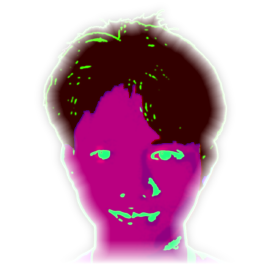
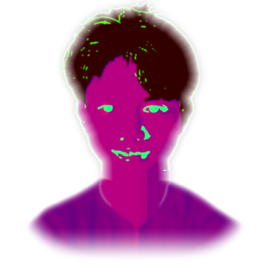
Show the portrait as a head-and-shoulders bust and drop the ink reveal
- avatar-map.png rebuilt: the head-only map scaled into the top two-thirds, the neck
  continued, shoulders and V-neck t-shirt traced from the About photo's silhouette; the
  shirt sits between face and hair in both modes, shoulders and bottom fade to dots
- The plate masks with the map's own alpha so it follows the bust; avatar-ink.webp deleted
- Remove the hover/tap ink reveal, the "Show the drawing" pin (markup, state, handler,
  style) and the reveal tweak constant; tilt and pointer accent stay; the canvas label
  says head and shoulders
- Section glow rests at the top edge (--my 0%) so untouched sections and phones show it again

diff --git a/src/engine.js b/src/engine.js
@@ -3,7 +3,6 @@ import { SKILLS } from './data.js';
 /* ---------- constants ---------- */
 var RAMP = " .',;:clodxkO0KXNWM";
 var RL = RAMP.length;
-var IMG_URL = '/img/avatar-ink.webp';
 var PHOTO_URL = '/img/photo.webp';
 var MAP_URL = '/img/avatar-map.png';
 
@@ -83,7 +82,7 @@ function sdf(k, x, y, z, t) {
 /* ---------- engine ---------- */
 export function startEngine(logic) {
   var calm = window.matchMedia('(prefers-reduced-motion: reduce)');
-  var E = { t: 0, col: null, dark: true, svc: 0, cat: 'all', modal: -1, pin: false, speaking: false, speed: 1, rain: 1, light: 1, glyph: 10, revealR: 0.38, themeDirty: true };
+  var E = { t: 0, col: null, dark: true, svc: 0, cat: 'all', modal: -1, speaking: false, speed: 1, rain: 1, light: 1, glyph: 10, themeDirty: true };
   var raf = 0, last = performance.now(), lastDraw = 0, clockTimer = 0, tick = 0;
   var io = new IntersectionObserver(function (es) {
     for (var i = 0; i < es.length; i++) if (es[i].target.__fboLayer) es[i].target.__fboLayer.vis = es[i].isIntersecting;
@@ -317,10 +316,9 @@ export function startEngine(logic) {
     ctx.globalAlpha = 1;
   }
 
-  /* ----- avatar: ASCII over the INKWILD drawing ----- */
-  var A = makeLayer(false), aImg = null, aMap = null, aGrid = null, aBuf = document.createElement('canvas');
-  var aRev = 0, aIntro = 0, aBoil = 0, aBoilAt = 0, aSx = 0.5, aSy = 0.4, heroO = null;
-  loadImage(IMG_URL, function (im) { aImg = im; });
+  /* ----- avatar: the INKWILD portrait, head and shoulders, set in ASCII ----- */
+  var A = makeLayer(false), aMap = null, aGrid = null;
+  var aIntro = 0, aBoil = 0, aBoilAt = 0, aSx = 0.5, aSy = 0.4, heroO = null;
   loadImage(MAP_URL, function (im) {
     if (!im) return;
     try {
@@ -382,10 +380,7 @@ export function startEngine(logic) {
     var tx = A.inside ? A.px / w : 0.5 + 0.2 * Math.cos(E.t * 0.45), ty = A.inside ? A.py / h : 0.42 + 0.14 * Math.sin(E.t * 0.6);
     var k = still ? 1 : 1 - Math.pow(0.0015, dt);
     aSx += (tx - aSx) * k; aSy += (ty - aSy) * k;
-    var want = (A.inside || E.pin) ? 1 : 0;
-    aRev = still ? want : aRev + (want - aRev) * (1 - Math.pow(0.02, dt));
-    var cx = E.pin && !A.inside ? w * 0.5 : aSx * w, cy = E.pin && !A.inside ? h * 0.44 : aSy * h;
-    var R = aRev * E.revealR * w * (E.pin && !A.inside ? 1.7 : 1);
+    var cx = aSx * w, cy = aSy * h;
 
     ctx.font = monoFont(g.fs); ctx.textBaseline = 'top'; ctx.fillStyle = E.col.ink;
     var tiers = g.frames[aBoil], alphas = [0.5, 0.78, 1];
@@ -401,50 +396,23 @@ export function startEngine(logic) {
       for (var tr = 0; tr < 3; tr++) { ctx.globalAlpha = alphas[tr]; for (y = 0; y < rows; y++) ctx.fillText(tiers[tr][y], g.ox, g.oy + y * ch); }
     }
     ctx.globalAlpha = 1;
-    if (R > 2 && aImg) {
-      ctx.globalCompositeOperation = 'destination-out';
-      var hole = ctx.createRadialGradient(cx, cy, R * 0.3, cx, cy, R * 0.95);
-      hole.addColorStop(0, 'rgba(0,0,0,1)'); hole.addColorStop(1, 'rgba(0,0,0,0)');
-      ctx.fillStyle = hole; ctx.fillRect(0, 0, w, h);
-      ctx.globalCompositeOperation = 'source-over';
-    }
-    var band = 0.25 * R + 0.12 * w, mid = 0.85 * R, reach = mid + band;
-    var c0 = Math.max(0, Math.floor((cx - reach - g.ox) / cw)), c1 = Math.min(cols - 1, Math.ceil((cx + reach - g.ox) / cw));
-    var r0 = Math.max(0, Math.floor((cy - reach - g.oy) / ch)), r1 = Math.min(rows - 1, Math.ceil((cy + reach - g.oy) / ch));
+    /* accent: brighter glyphs only where the pointer is (it drifts on its own when nobody points) */
+    var band = 0.12 * w;
+    var c0 = Math.max(0, Math.floor((cx - band - g.ox) / cw)), c1 = Math.min(cols - 1, Math.ceil((cx + band - g.ox) / cw));
+    var r0 = Math.max(0, Math.floor((cy - band - g.oy) / ch)), r1 = Math.min(rows - 1, Math.ceil((cy + band - g.oy) / ch));
     ctx.fillStyle = E.col.accent;
     for (y = r0; y <= r1; y++) for (x = c0; x <= c1; x++) {
       d = g.dens[y * cols + x]; if (d < 0.03) continue;
       var gx = g.ox + (x + 0.5) * cw - cx, gy = g.oy + (y + 0.5) * ch - cy;
-      var bd = 1 - Math.abs(Math.sqrt(gx * gx + gy * gy) - mid) / band;
+      var bd = 1 - Math.sqrt(gx * gx + gy * gy) / band;
       if (bd <= 0) continue;
       idx = Math.floor(d * (RL - 0.01)) + Math.round(bd * 3);
-      if (!still && hash2(x + tick * 0.37, y - tick * 0.11) < 0.3 * aRev + 0.04) idx = 1 + Math.floor(hash2(x - tick, y + tick) * (RL - 1));
+      if (!still && hash2(x + tick * 0.37, y - tick * 0.11) < 0.04) idx = 1 + Math.floor(hash2(x - tick, y + tick) * (RL - 1));
       if (idx > RL - 1) idx = RL - 1;
       ctx.globalAlpha = Math.pow(bd, 1.4) * 0.95;
       ctx.fillText(RAMP.charAt(idx), g.ox + x * cw, g.oy + y * ch);
     }
     ctx.globalAlpha = 1;
-    if (R > 2 && aImg) {
-      if (aBuf.width !== A.el.width || aBuf.height !== A.el.height) { aBuf.width = A.el.width; aBuf.height = A.el.height; }
-      var b = aBuf.getContext('2d');
-      b.setTransform(A.dpr, 0, 0, A.dpr, 0, 0);
-      b.globalCompositeOperation = 'source-over'; b.clearRect(0, 0, w, h);
-      b.drawImage(aImg, g.ox, g.oy, cols * cw, rows * ch);
-      b.globalCompositeOperation = 'source-atop';
-      var sh = b.createRadialGradient(cx, cy, R * 0.34, cx, cy, R);
-      sh.addColorStop(0, 'rgba(' + E.col.shade + ',0)'); sh.addColorStop(1, 'rgba(' + E.col.shade + ',' + (E.dark ? 0.82 : 0.6) + ')');
-      b.fillStyle = sh; b.fillRect(0, 0, w, h);
-      b.globalCompositeOperation = 'destination-in';
-      var mk = b.createRadialGradient(cx, cy, R * 0.46, cx, cy, R);
-      mk.addColorStop(0, 'rgba(0,0,0,1)'); mk.addColorStop(1, 'rgba(0,0,0,0)');
-      b.fillStyle = mk; b.fillRect(0, 0, w, h);
-      b.globalCompositeOperation = 'source-over';
-      ctx.globalCompositeOperation = 'destination-over';
-      ctx.setTransform(1, 0, 0, 1, 0, 0);
-      ctx.drawImage(aBuf, 0, 0);
-      ctx.setTransform(A.dpr, 0, 0, A.dpr, 0, 0);
-      ctx.globalCompositeOperation = 'source-over';
-    }
   }
 
   /* ----- one raymarched ASCII object, used by the service stage and the work covers ----- */
@@ -782,8 +750,8 @@ export function startEngine(logic) {
     var st = logic.state, p = logic.props;
     var dark = st.dark == null ? (p.mode ?? 'Dark') !== 'Light' : st.dark;
     if (dark !== E.dark) { E.dark = dark; A.stamp = ''; for (var i = 0; i < covers.length; i++) covers[i].__fboC.drawn = false; }
-    E.svc = st.svc; E.pin = st.pin; E.speaking = st.busy;
-    E.speed = p.motion ?? 1; E.rain = p.rain ?? 1; E.light = p.light ?? 1; E.glyph = Math.round(p.glyph ?? 10); E.revealR = p.reveal ?? 0.38;
+    E.svc = st.svc; E.speaking = st.busy;
+    E.speed = p.motion ?? 1; E.rain = p.rain ?? 1; E.light = p.light ?? 1; E.glyph = Math.round(p.glyph ?? 10);
     E.themeDirty = true;
     bind();
     for (var j = 0; j < secs.length; j++) secs[j].el.style.height = ''; /* the app may have changed a section's content: its real height wins over a pin */

diff --git a/src/styles.css b/src/styles.css
@@ -28,7 +28,7 @@ body{margin:0}
 .fbo .mnu{position:absolute;top:100%;left:0;right:0;display:flex;flex-direction:column;padding:6px var(--pad) 18px;background:rgba(var(--bgc),.97);border-bottom:1px solid var(--line)}
 .fbo .mnu a{display:flex;align-items:center;min-height:54px;border-top:1px solid var(--line);font:500 14px/1 var(--mono);letter-spacing:.09em;text-transform:uppercase;text-decoration:none}
 .fbo .sec{position:relative;min-height:calc(min(100vh,900px) - 64px);display:flex;align-items:center;scroll-margin-top:64px;overflow:hidden}
-.fbo .sec::before{content:"";position:absolute;inset:0;pointer-events:none;background:radial-gradient(280px circle at var(--mx,72%) var(--my,-30%),var(--glow),transparent 64%)}
+.fbo .sec::before{content:"";position:absolute;inset:0;pointer-events:none;background:radial-gradient(280px circle at var(--mx,72%) var(--my,0%),var(--glow),transparent 64%)}
 .fbo .amb{position:absolute;inset:0;width:100%;height:100%;display:block;pointer-events:none}
 .fbo .wrap{position:relative;z-index:1;width:100%;max-width:1360px;margin:0 auto;padding:30px var(--pad)}
 .fbo .fxb{transition:opacity .9s cubic-bezier(.16,1,.3,1),filter .9s cubic-bezier(.16,1,.3,1),transform .9s cubic-bezier(.16,1,.3,1)}
@@ -48,7 +48,7 @@ body{margin:0}
 /* header CTA: same Messenger link as the hero, sized like the theme pill; icon only where the nav gets tight (≤1000px) */
 .fbo .hcta{min-height:44px;padding:0 16px;gap:9px}
 .fbo .icb{display:inline-flex;align-items:center;justify-content:center;width:48px;height:48px;flex:none;border-radius:999px;border:1px solid var(--line);background:rgba(var(--bgc),.6);color:var(--ink);cursor:pointer;transition:border-color .2s ease,color .2s ease,transform .15s ease}
-.fbo .icb:hover,.fbo .icb.on{border-color:var(--accent);color:var(--accent)}
+.fbo .icb:hover{border-color:var(--accent);color:var(--accent)}
 .fbo .icb:active{transform:scale(.94)}
 .fbo .lnk{display:inline-flex;align-items:center;min-height:48px;padding:0 4px;font:500 12px/1 var(--mono);letter-spacing:.09em;text-transform:uppercase;text-decoration:none;color:var(--mute);background-image:linear-gradient(currentColor,currentColor);background-size:0 1px;background-repeat:no-repeat;background-position:4px calc(50% + 11px);transition:color .2s ease,background-size .3s ease}
 .fbo .lnk:hover{color:var(--ink);background-size:calc(100% - 8px) 1px}
@@ -63,7 +63,8 @@ body{margin:0}
 .fbo .vp{margin:0;max-width:32ch;font:300 clamp(22px,2.1vw,30px)/1.22 var(--serif);letter-spacing:-.01em;text-wrap:balance}
 .fbo .hero-cta{display:flex;flex-wrap:wrap;gap:12px;margin-top:14px}
 .fbo .av{position:relative;z-index:3;width:var(--avw);aspect-ratio:1/1}
-.fbo .plate{position:absolute;inset:0;background:var(--bg);-webkit-mask:url(/img/avatar-ink.webp) center/100% 100% no-repeat;mask:url(/img/avatar-ink.webp) center/100% 100% no-repeat;transition:background-color .5s ease}
+/* the portrait map's alpha is its subject mask: this page-coloured plate keeps the ambient rain out of the bust */
+.fbo .plate{position:absolute;inset:0;background:var(--bg);-webkit-mask:url(/img/avatar-map.png) center/100% 100% no-repeat;mask:url(/img/avatar-map.png) center/100% 100% no-repeat;transition:background-color .5s ease}
 /* marquee */
 .fbo .mq{position:relative;z-index:1;overflow:hidden;height:56px;display:flex;align-items:center;border-top:1px solid var(--line);border-bottom:1px solid var(--line)}
 .fbo .mqt{display:flex;flex:none;white-space:nowrap;animation:fbo-mq 48s linear infinite;font:500 13px/1 var(--mono);letter-spacing:.14em;text-transform:uppercase;color:var(--mute)}

diff --git a/src/main.js b/src/main.js
@@ -14,12 +14,12 @@ const ARROW = 'M7 17 17 7M8 7h9v9'; // same arrow as the contact section's exter
 
 // The engine reads `busy` (avatar "speaking"; always false since the chat is gone) and pushes `time` every 20 s
 // (nothing displays it, so render() ignores it).
-const state = { dark: root.classList.contains('is-dark'), svc: 0, cat: 'all', pin: false, menu: false, modal: -1, busy: false };
+const state = { dark: root.classList.contains('is-dark'), svc: 0, cat: 'all', menu: false, modal: -1, busy: false };
 const logic = {
   root: { current: root }, tilt: { current: ref('tilt') }, avatar: { current: ref('avatar') }, stage: { current: null },
   globe: { current: ref('globe') }, tide: { current: ref('tide') }, photo: { current: ref('photo') }, skl: { current: ref('skl') }, deck: { current: deck },
   state,
-  props: { mode: 'Dark', glyph: 10, reveal: 0.38, rain: 1, light: 1, motion: 1 },
+  props: { mode: 'Dark', glyph: 10, rain: 1, light: 1, motion: 1 },
   setState
 };
 let eng = null, modalEl = null, opener = null;
@@ -53,13 +53,6 @@ function render(keys) {
     });
   }
   if (has('cat')) renderCat();
-  if (has('pin')) {
-    const b = act('togglePin'), label = state.pin ? 'Back to ASCII' : 'Show the drawing';
-    b.classList.toggle('on', state.pin);
-    b.setAttribute('aria-pressed', String(state.pin));
-    b.setAttribute('aria-label', label);
-    b.title = label;
-  }
   if (has('modal')) renderModal();
 }
 
@@ -154,7 +147,6 @@ const ACTIONS = {
   },
   toggleMenu: () => setState({ menu: !state.menu }),
   closeMenu: () => setState({ menu: false }),
-  togglePin: () => setState({ pin: !state.pin }),
   deckPrev: () => slide(-1),
   deckNext: () => slide(1),
   closeModal: () => setState({ modal: -1 })
@@ -175,5 +167,5 @@ pans.forEach((p, i) => {
   $('.ph', p).addEventListener('focus', pick);
 });
 
-render(['dark', 'menu', 'svc', 'cat', 'pin']);
+render(['dark', 'menu', 'svc', 'cat']);
 eng = startEngine(logic);

diff --git a/index.html b/index.html
@@ -76,10 +76,7 @@
 <div class="av">
 <div data-ref="tilt" style="position: absolute; inset: 0; transition: transform 0.25s ease-out; will-change: transform">
 <div class="plate" aria-hidden="true"></div>
-<canvas data-ref="avatar" role="img" aria-label="ASCII portrait of Febriel. Hovering shows the ink drawing underneath." style="position: absolute; inset: 0; width: 100%; height: 100%; display: block; touch-action: pan-y; cursor: crosshair"></canvas>
-<button type="button" class="icb" data-act="togglePin" aria-pressed="false" aria-label="Show the drawing" title="Show the drawing" style="position: absolute; top: 2%; left: 2%">
-<svg class="ic" viewBox="0 0 24 24" aria-hidden="true"><path d="M2 12s3.6-6.5 10-6.5S22 12 22 12s-3.6 6.5-10 6.5S2 12 2 12z"/><circle cx="12" cy="12" r="2.6"/></svg>
-</button>
+<canvas data-ref="avatar" role="img" aria-label="ASCII portrait of Febriel, head and shoulders" style="position: absolute; inset: 0; width: 100%; height: 100%; display: block; touch-action: pan-y; cursor: crosshair"></canvas>
 </div>
 </div>
 </div>

diff --git a/PROJECT.md b/PROJECT.md
@@ -16,7 +16,7 @@ buttons, redesigned 2026-11-15 (see Decisions). `design/Brand.dc.html` = brand p
   (diffable against the design); the 2026-11-15 hero uses classes in `styles.css` instead.
 - `src/styles.css` — the design's `<helmet><style>`, verbatim, fonts/images repointed to `/fonts`, `/img`, plus the
   2026-11-15 hero / header-CTA rules.
-- `src/engine.js` — the design's canvas engine (lines 451–1274), near-verbatim except the section reveal below.
+- `src/engine.js` — the design's canvas engine (lines 451–1274), near-verbatim except the section reveal and the portrait below.
   Do not restyle it; port fixes only. `startEngine(logic)` → `{ sync, stop }`.
   - Section reveals replay (2026-11-15, owner): `inView()` (tested) reveals a `[data-sec]` once over 1/3 of
     min(viewport, section height) is on screen and dissolves it under 1/4 (hysteresis, so no flicker). Dissolve =
@@ -27,6 +27,18 @@ buttons, redesigned 2026-11-15 (see Decisions). `design/Brand.dc.html` = brand p
     while its text plays (scrambled glyphs rewrap on phones); `sync()` drops pins since app changes win. No dissolve
     while the work modal is open or keyboard focus (`:focus-visible`) is inside; `focusin` reveals a hidden section.
     Reduced motion: unchanged (content always visible, no veil/decode/dissolve).
+  - Hero portrait (2026-11-15, owner): ASCII only, a head-and-shoulders bust. The hover/tap ink reveal and its
+    "Show the drawing" pin are gone; the 3D tilt and the pointer accent (a small accent-glyph cloud at the pointer,
+    drifting on its own when nobody points) stay.
+- `public/img/avatar-map.png` — the portrait's density map, 264×264 RGBA read by `buildAvatar`: channel 0 = tone,
+  1 = accents (only hair uses them, dark mode), 2 = hair flag (low = hair: dark mode gives it a minimum density),
+  alpha = subject mask. `.plate` (page colour, behind the canvas, keeps the ambient rain out of the portrait) masks with
+  the same file's alpha, so its silhouette always matches. Built once (scratch script, not in the repo) from the
+  head-only map of `26a4b8f` (traced from the INKWILD ink drawing): head scaled 0.75 into the top two-thirds, neck
+  continued from its row 238, shoulders and V-neck t-shirt from `photo.webp`'s alpha (skin = warm pixels), shirt tone
+  ≈0.5 from the photo's luminance (lighter mass than the face in dark mode, darker in light mode), 6px soft edges, a
+  rounded vignette fading shoulders and bottom to dots. `public/img` also holds `photo.webp` (About photo);
+  `avatar-ink.webp` was deleted with the reveal.
 - `src/data.js` — `SKILLS`, `GROUPS`, `PROJECTS` (set `video` per project here; optional `links: [[label, url], …]`).
 - `src/main.js` — state + DOM glue; replaces the design's `Component` class. Builds the `logic`
   object the engine expects.
@@ -38,7 +50,7 @@ buttons, redesigned 2026-11-15 (see Decisions). `design/Brand.dc.html` = brand p
 ## Engine ↔ app contract
 
 Engine reads only: `logic.{root,tilt,avatar,stage,globe,tide,photo,skl,deck}.current`,
-`logic.state.{dark,svc,pin,busy,cat,modal,time}`, `logic.props.{mode,motion,rain,light,glyph,reveal}`,
+`logic.state.{dark,svc,busy,cat,modal,time}`, `logic.props.{mode,motion,rain,light,glyph}`,
 and calls `logic.setState({ time })` every 20 s. App calls `eng.sync()` after every state change.
 Since the chatbot's removal `busy` (avatar "speaking") is always false and `time` is stored but not rendered.
 
@@ -49,9 +61,9 @@ Since the chatbot's removal `busy` (avatar "speaking") is always false and `time
   Persisted in `localStorage['fbo-mode']` = `dark|light`, written only on an actual toggle; inline script after the root tag applies it pre-paint.
 - Refs: `[data-ref="…"]` — `tilt avatar globe tide photo skl deck work menu catRows modalTpl`.
 - Text bindings: `[data-bind="…"]` — `modeLabel catKicker catTitle`; in modal: `modTitle modDesc modTags`.
-- Actions: `[data-act="…"]` — `toggleMode toggleMenu closeMenu togglePin deckPrev deckNext closeModal`.
+- Actions: `[data-act="…"]` — `toggleMode toggleMenu closeMenu deckPrev deckNext closeModal`.
 - Hero: `.wrap.stg` grid = `.hc` text column (`h1.nm` "Febriel <em>B. Otud</em>", `p.vp`, supporting `p`, `.hero-cta` with
-  the Messenger `a.btn` + ghost "See my work") and `.av` (tilt → plate, avatar canvas, pin button) on the right / below ≤820px.
+  the Messenger `a.btn` + ghost "See my work") and `.av` (tilt → plate, avatar canvas) on the right / below ≤820px.
   No hero text is bound by JS.
 - Header CTA: `a.btn.hcta` (same Messenger link) between the theme pill and the menu button; `aria-label` carries the name,
   its `span` label is `display:none` ≤1000px (icon only). ≤360px the theme pill hides its `modeLabel` word so the header fits 320px.
@@ -84,7 +96,7 @@ Since the chatbot's removal `busy` (avatar "speaking") is always false and `time
 - Canonical, `og:url`, JSON-LD `url`, `public/sitemap.xml` and the robots `Sitemap:` line are hardcoded to
   `https://febrielportfolio.vercel.app/` (an env placeholder once shipped as a literal). Change all five if the domain changes.
 - Palette fixed to Tidal Orchid; the other two palettes stay in CSS (class swap on root) — design tweak, not UI.
-- Design-tool tweak props (glyph, reveal, rain, light, motion) are constants in `main.js`.
+- Design-tool tweak props (glyph, rain, light, motion) are constants in `main.js`.
 - 2026-11-15: AI chatbot ("Ask my avatar", Groq via the Supabase `ask` function, rating thumbs) removed from the site and
   the code (owner's decision). The avatar's knowledge is kept outside the repo. The `chat_logs` table stays in Supabase by
   the owner's choice; the migration files are its record.
@@ -94,11 +106,12 @@ Since the chatbot's removal `busy` (avatar "speaking") is always false and `time
 - Hero (2026-11-15, "cluttered" before): 4 elements — name, value line (brand-plan positioning), one supporting line,
   two buttons — plus the portrait. Coordinates + live clock line dropped. Name: Gambetta 300, one line on desktop sized
   `min(8vw,128px,15cqi)` (container query on `.hc`) so the ASCII decode can't rewrap it (no CLS); two lines at
-  `clamp(56px,8vw,128px)` ≤820px. Name parallax removed; portrait tilt, hover reveal and pin kept.
-  Pointer ASCII light radius 64px and section glow 280px (2026-11-15, owner: smaller).
+  `clamp(56px,8vw,128px)` ≤820px. Name parallax removed; portrait tilt kept (hover reveal and pin removed later the same day, see `engine.js`).
+  Pointer ASCII light radius 64px and section glow 280px (2026-11-15, owner: smaller); the glow rests at the section's
+  top edge (`--my` 0%) until the pointer moves it, so untouched sections and phones keep a faint top glow.
   Portrait `min(400px,42vh,34vw)`, 320px max ≤820px.
 - No analytics (owner's decision): no page analytics, no cookies → no consent banner. If ever wanted: a cookieless one
   (Plausible / CF Web Analytics).
 - Docker not needed: Supabase is hosted.
 
-last Claude session: 2026-11-15 10:37
+last Claude session: 2026-11-15 11:06
